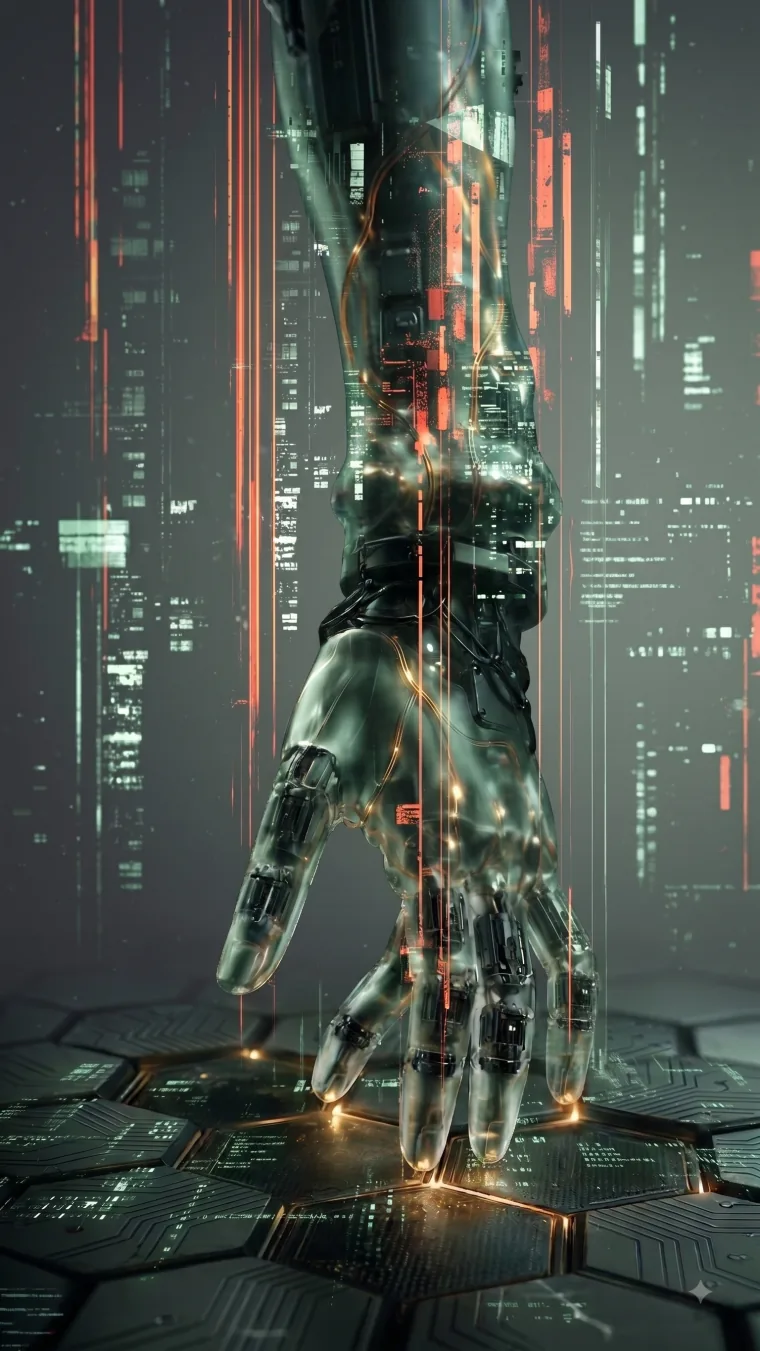
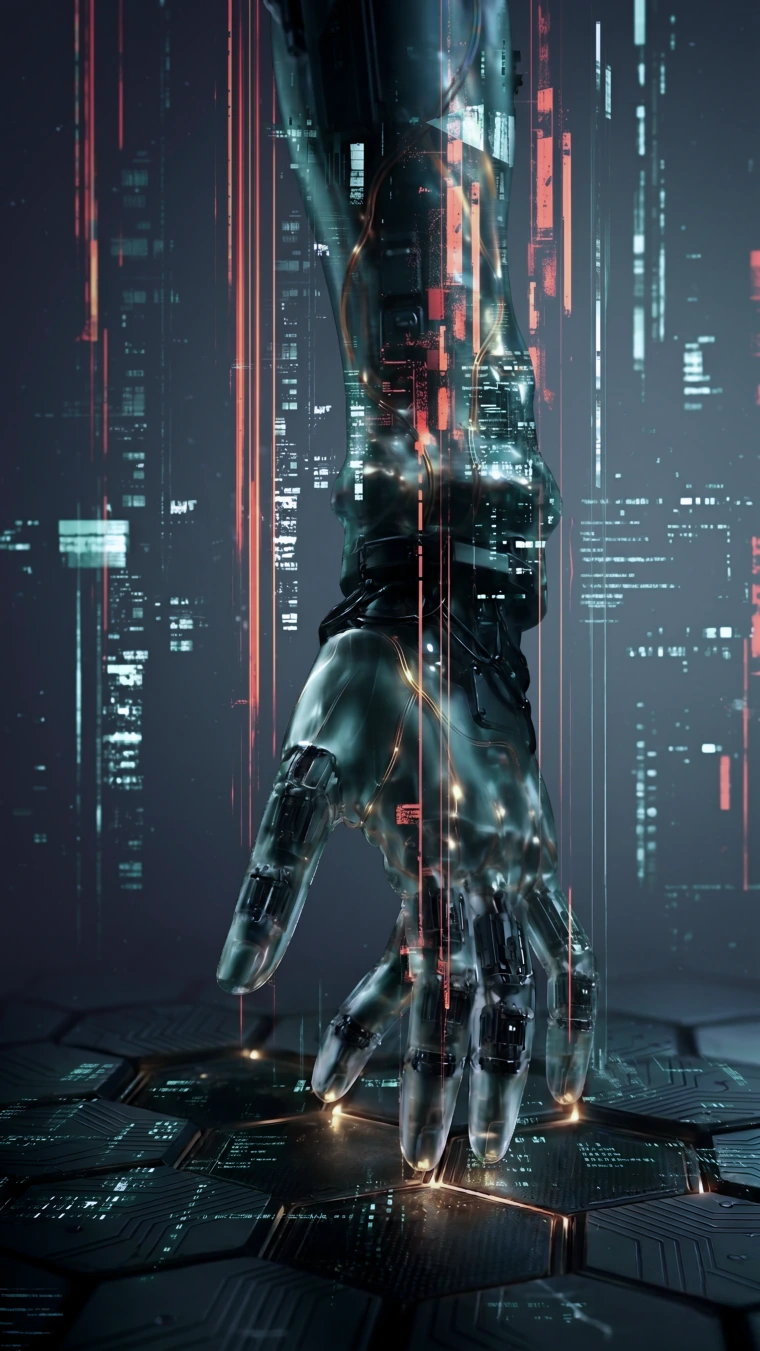
feat(lab): feather the window wider, thin the frost, regrade the hand
The hover band's 9px linear feather read as a hard line and mach-banded
at its ends — now 24px on a smoothstep ramp, one shared recipe for the
plate and wordmark halves. The glass eases from 7px to 5. The hand
returns recolored, re-encoded at q92 with sharp YUV so the coral streaks
keep their edges.

Claude-Session: https://claude.ai/code/session_01QAwbfv6YH25swQbvfgAw99

diff --git a/src/pages/Lab.tsx b/src/pages/Lab.tsx
@@ -34,6 +34,21 @@ const WORDMARK = 'laboratory';
  * as cut FROM the image. An explicit shared size makes the whole composition one photograph
  * that several windows look through; each window then only has to subtract its own offset.
  */
+/* The band's edge softness, shared by its plate and wordmark halves — one window, one
+   feather. 24px, eased: a short linear ramp reads as a hard line against the picture's
+   detail, and a linear one at any width shows mach bands where the ramp meets the flats,
+   so the stops approximate smoothstep. */
+const bandFeather = `
+  -webkit-mask-image: linear-gradient(180deg,
+    transparent 0, rgba(0, 0, 0, 0.15) 7px, rgba(0, 0, 0, 0.5) 12px, rgba(0, 0, 0, 0.85) 17px, #000 24px,
+    #000 calc(100% - 24px), rgba(0, 0, 0, 0.85) calc(100% - 17px), rgba(0, 0, 0, 0.5) calc(100% - 12px),
+    rgba(0, 0, 0, 0.15) calc(100% - 7px), transparent 100%);
+  mask-image: linear-gradient(180deg,
+    transparent 0, rgba(0, 0, 0, 0.15) 7px, rgba(0, 0, 0, 0.5) 12px, rgba(0, 0, 0, 0.85) 17px, #000 24px,
+    #000 calc(100% - 24px), rgba(0, 0, 0, 0.85) calc(100% - 17px), rgba(0, 0, 0, 0.5) calc(100% - 12px),
+    rgba(0, 0, 0, 0.15) calc(100% - 7px), transparent 100%);
+`;
+
 const sharpImage = `
   background-image: url('${IMG_SRC}');
   background-size: var(--rail) auto;
@@ -387,8 +402,7 @@ const Plate = styled.div`
     /* Feathered top and bottom. A hard edge on a band that slides strobes against the
        picture's own detail; a ramp reads as light falling across it. The mask is fixed
        relative to the band's own box, so it travels with it for free. */
-    -webkit-mask-image: linear-gradient(180deg, transparent 0, #000 9px, #000 calc(100% - 9px), transparent 100%);
-    mask-image: linear-gradient(180deg, transparent 0, #000 9px, #000 calc(100% - 9px), transparent 100%);
+    ${bandFeather}
   }
 
   /* Counteracts the band's own offset so the picture inside it continues the one behind —
@@ -415,12 +429,13 @@ const Plate = styled.div`
     position: absolute;
     inset: 0;
     z-index: 1;
-    /* 7px, not the token's 11. The graduated horizontal mask this replaced ran the glass
+    /* 5px, not the token's 11. The graduated horizontal mask this replaced ran the glass
        from full strength down to 40%, so most of the plate was never seeing 11 — dropping
        it and keeping 11 put the WHOLE picture under the densest setting and turned the
-       miniature to mush. 7 is about what the old average resolved to. */
-    backdrop-filter: blur(7px) saturate(172%) brightness(1.04);
-    -webkit-backdrop-filter: blur(7px) saturate(172%) brightness(1.04);
+       miniature to mush. Started at 7 (about what the old average resolved to), eased to 5
+       so more of the picture survives the glass. */
+    backdrop-filter: blur(5px) saturate(172%) brightness(1.04);
+    -webkit-backdrop-filter: blur(5px) saturate(172%) brightness(1.04);
     background: linear-gradient(235deg, rgba(255, 255, 255, 0.18), rgba(30, 31, 36, 0.26) 50%, rgba(8, 9, 12, 0.46));
     -webkit-mask-image: linear-gradient(
       180deg,
@@ -461,7 +476,7 @@ const Plate = styled.div`
     }
     /* Much lighter here. On the desktop column the glass separates a picture from the
        prose beside it; on a phone the picture IS the page's opening and nothing sits over
-       it but the nav, which carries its own plate. At the desktop's 7px the hero read as
+       it but the nav, which carries its own plate. At desktop strength the hero read as
        mush — cover already downscales the source hard before any blur lands on it.
        The vertical mask goes too: it exists to clear the wordmark's dip zone, and there is
        no wordmark below md. */
@@ -526,7 +541,7 @@ const Masthead = styled.div`
 
   /* The colour reveal, wordmark half — the plate's .band recipe with one substitution:
      Masthead's top is --pic-top, not 0, so the band's rail-space position is offset by
-     that much. Everything else (the height, the 9px feather, the travel) is the same
+     that much. Everything else (the height, the shared feather, the travel) is the same
      window, which is the point — it must not look like a second effect starting where
      the first stops. */
   .band {
@@ -541,8 +556,7 @@ const Masthead = styled.div`
       top 0.5s cubic-bezier(0.16, 1, 0.3, 1),
       height 0.5s cubic-bezier(0.16, 1, 0.3, 1),
       opacity 0.35s ease;
-    -webkit-mask-image: linear-gradient(180deg, transparent 0, #000 9px, #000 calc(100% - 9px), transparent 100%);
-    mask-image: linear-gradient(180deg, transparent 0, #000 9px, #000 calc(100% - 9px), transparent 100%);
+    ${bandFeather}
   }
 
   /* Pulled back up by the band's own offset, so this box lands exactly on Masthead's —
